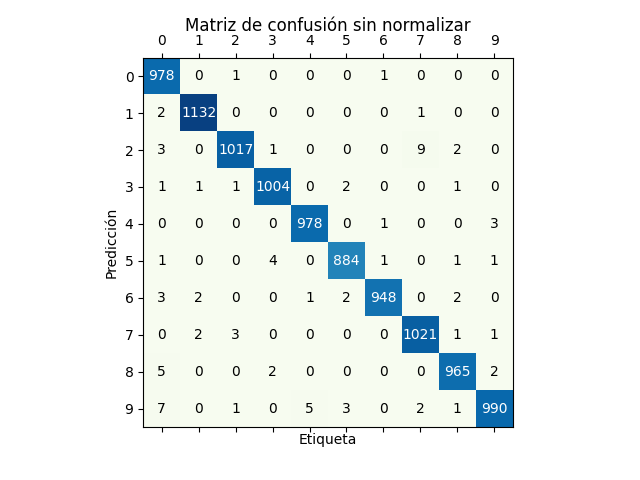
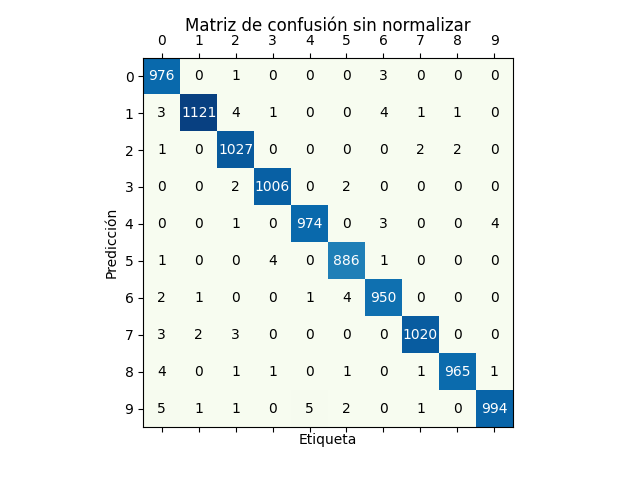
#4 Fin todo

diff --git a/P1-RedesNeuronales/mnist.py b/P1-RedesNeuronales/mnist.py
@@ -162,8 +162,9 @@ def construc_model(input_shape):
 	model.add(Flatten())
 	model.add(Dense(512, activation='relu'))
 	model.add(Dense(128, activation='relu'))
+	model.add(Dropout(0.2))
 	model.add(Dense(50, activation='relu'))
-	model.add(Dropout(0.5))
+	model.add(Dropout(0.4))
 	model.add(Dense(N_CLASSES, activation='softmax'))
 	model.compile(loss=keras.losses.categorical_crossentropy,
 	              optimizer=keras.optimizers.Adam(),
